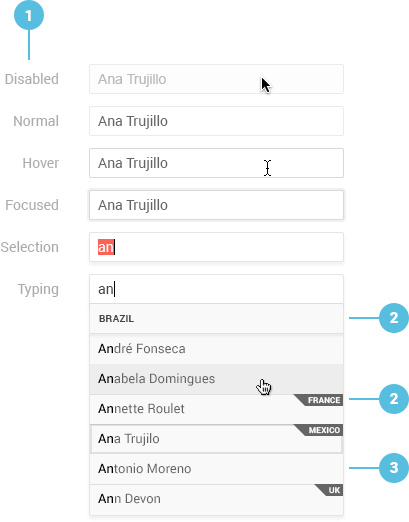
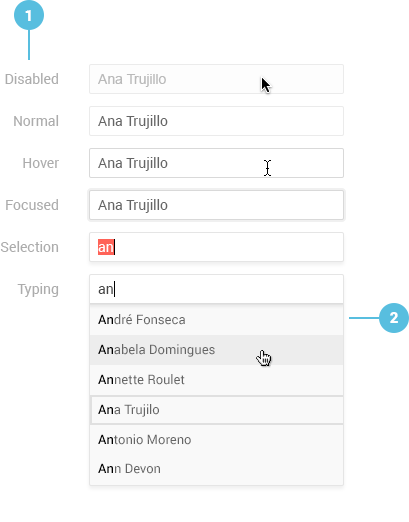
docs: Replace template images no grouping

diff --git a/docs/autocomplete/api.md b/docs/autocomplete/api.md
@@ -66,20 +66,17 @@ Defines the order in which the component is focused through the `Tab` key.
 
 Defines the styles of the AutoComplete.
 
-
-
 #### separator `String`
 
 Separates the values selected by the end user.
 
 #### minLength `Number`
 
-Sets the minimum length of the input typed by the end user.
+Sets the minimum number of characters the user should type in the input field before any suggestion is displayed.
 
 #### suggest `Boolean`
 
-When set to `true`, the AutoComplete displays suggestions corresponding to the input typed by the end user.
-
+If set to `true`, the AutoComplete automatically uses the first suggestion as its value.
 
 ## Events
 

diff --git a/docs/autocomplete/index.md b/docs/autocomplete/index.md
@@ -17,8 +17,7 @@ The Kendo UI AutoComplete for React is part of the DropDowns `npm` package of th
 ![Template of the Kendo UI AutoComplete for React](images/autocomplete.png)
 
 1. AutoComplete interaction states
-2. Grouping header
-3. Drop-down list item
+2. Drop-down list
 
 ## Demos
 

diff --git a/docs/combobox/index.md b/docs/combobox/index.md
@@ -18,7 +18,7 @@ The Kendo UI ComboBox for React is part of the DropDowns `npm` package of the Ke
 
 1. ComboBox interaction states
 2. Drop-down **Expand** / **Collapse** button
-3. Drop-down list item
+3. Drop-down list
 
 ## Demos
 

diff --git a/docs/dropdownlist/index.md b/docs/dropdownlist/index.md
@@ -20,8 +20,7 @@ The Kendo UI DropDownList for React is part of the DropDowns `npm` package of th
 
 1. DropDownList interaction states
 2. Filter input field
-3. Grouping header
-4. Drop-down list item
+3. Drop-down list
 
 ## Demos
 
